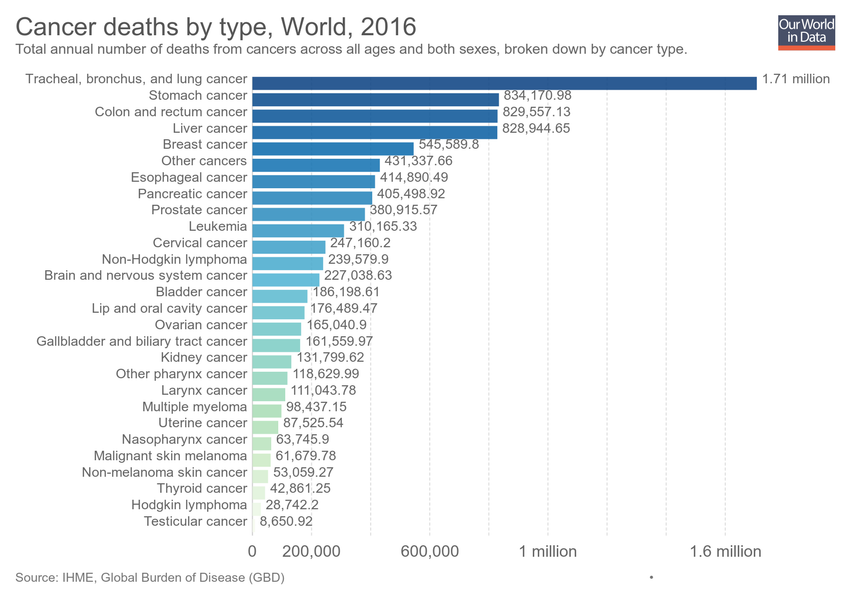
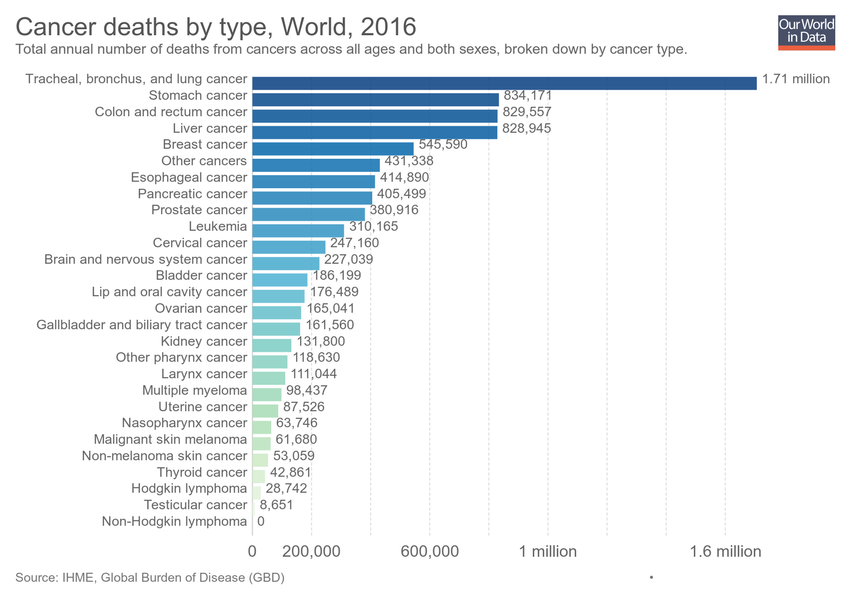
Updating chart total-cancer-deaths-by-type

diff --git a/grapher/total-cancer-deaths-by-type.html b/grapher/total-cancer-deaths-by-type.html
@@ -1,4 +1,4 @@
-<!doctype html><html><head><meta name="viewport" content="width=device-width, initial-scale=1" /><title>Cancer deaths by type - Our World in Data</title><meta name="description" content="Total annual number of deaths from cancers across all ages and both sexes, broken down by cancer type. " /><link rel="canonical" href="https://ourworldindata.org/grapher/total-cancer-deaths-by-type" /><meta property="fb:app_id" content="1149943818390250" /><meta property="og:url" content="https://ourworldindata.org/grapher/total-cancer-deaths-by-type" /><meta property="og:title" content="Cancer deaths by type" /><meta property="og:description" content="Total annual number of deaths from cancers across all ages and both sexes, broken down by cancer type. " /><meta property="og:image" content="https://ourworldindata.org/grapher/exports/total-cancer-deaths-by-type.png?v=5" /><meta property="og:image:width" content="850" /><meta property="og:image:height" content="600" /><meta property="og:site_name" content="Our World in Data" /><meta name="twitter:card" content="summary_large_image" /><meta name="twitter:site" content="@OurWorldInData" /><meta name="twitter:creator" content="@OurWorldInData" /><meta name="twitter:title" content="Cancer deaths by type" /><meta name="twitter:description" content="Total annual number of deaths from cancers across all ages and both sexes, broken down by cancer type. " /><meta name="twitter:image" content="https://ourworldindata.org/grapher/exports/total-cancer-deaths-by-type.png?v=5" /><style>
+<!doctype html><html><head><meta name="viewport" content="width=device-width, initial-scale=1" /><title>Cancer deaths by type - Our World in Data</title><meta name="description" content="Total annual number of deaths from cancers across all ages and both sexes, broken down by cancer type. " /><link rel="canonical" href="https://ourworldindata.org/grapher/total-cancer-deaths-by-type" /><meta property="fb:app_id" content="1149943818390250" /><meta property="og:url" content="https://ourworldindata.org/grapher/total-cancer-deaths-by-type" /><meta property="og:title" content="Cancer deaths by type" /><meta property="og:description" content="Total annual number of deaths from cancers across all ages and both sexes, broken down by cancer type. " /><meta property="og:image" content="https://ourworldindata.org/grapher/exports/total-cancer-deaths-by-type.png?v=6" /><meta property="og:image:width" content="850" /><meta property="og:image:height" content="600" /><meta property="og:site_name" content="Our World in Data" /><meta name="twitter:card" content="summary_large_image" /><meta name="twitter:site" content="@OurWorldInData" /><meta name="twitter:creator" content="@OurWorldInData" /><meta name="twitter:title" content="Cancer deaths by type" /><meta name="twitter:description" content="Total annual number of deaths from cancers across all ages and both sexes, broken down by cancer type. " /><meta name="twitter:image" content="https://ourworldindata.org/grapher/exports/total-cancer-deaths-by-type.png?v=6" /><style>
         html, body {
             height: 100%;
             margin: 0;
@@ -20,8 +20,8 @@
         }
     </style><noscript><style>
                     figure { display: none !important; }
-                </style></noscript><link rel="stylesheet" href="https://ourworldindata.org/grapher/assets/commons.bundle.dcbbe53805c487d5e57617b10ac73a8a.css" /><link rel="preload" href="/grapher/data/variables/61055+61722+61108+57397+61755+61046+61733+57415+61702+57406+57424+61675+61037+61711+57451+57462+57433+61693+57442+61744+61117+57471+61684+61812+61777+61790+61801+61825.json?v=5" as="fetch" crossorigin /></head><body class="singleChart"><figure data-grapher-src="/grapher/total-cancer-deaths-by-type"></figure><noscript id="fallback"><img src="/grapher/exports/total-cancer-deaths-by-type.svg" /><p>Interactive visualization requires JavaScript</p></noscript><script src="https://cdn.polyfill.io/v2/polyfill.min.js?features=es6,fetch"></script><script src="https://ourworldindata.org/grapher/assets/commons.bundle.da523acc49807a06a11f.js"></script><script src="https://ourworldindata.org/grapher/assets/charts.bundle.da523acc49807a06a11f.js"></script><script>
-        var jsonConfig = {"id":2004,"map":{"projection":"World","colorSchemeLabels":[],"colorSchemeValues":[],"defaultProjection":"World","colorSchemeMinValue":0,"customNumericColors":[],"customCategoryColors":{},"customCategoryLabels":{},"customHiddenCategories":{}},"tab":"chart","slug":"total-cancer-deaths-by-type","type":"DiscreteBar","title":"Cancer deaths by type","xAxis":{"scaleType":"linear"},"yAxis":{"min":0,"scaleType":"linear"},"version":5,"subtitle":"Total annual number of deaths from cancers across all ages and both sexes, broken down by cancer type. ","hasMapTab":false,"stackMode":"absolute","dimensions":[{"display":{},"property":"y","variableId":61055,"numDecimalPlaces":0},{"display":{},"property":"y","variableId":61722,"numDecimalPlaces":0},{"display":{},"property":"y","variableId":61108,"numDecimalPlaces":0},{"display":{},"property":"y","variableId":57397,"numDecimalPlaces":0},{"display":{},"property":"y","variableId":61755,"numDecimalPlaces":0},{"display":{},"property":"y","variableId":61046,"numDecimalPlaces":0},{"display":{},"property":"y","variableId":61733,"numDecimalPlaces":0},{"display":{},"property":"y","variableId":57415,"numDecimalPlaces":0},{"display":{},"property":"y","variableId":61702,"numDecimalPlaces":0},{"display":{},"property":"y","variableId":57406,"numDecimalPlaces":0},{"display":{},"property":"y","variableId":57424,"numDecimalPlaces":0},{"display":{},"property":"y","variableId":61675,"numDecimalPlaces":0},{"display":{},"property":"y","variableId":61037,"numDecimalPlaces":0},{"display":{},"property":"y","variableId":61711,"numDecimalPlaces":0},{"display":{},"property":"y","variableId":57451,"numDecimalPlaces":0},{"display":{},"property":"y","variableId":57462,"numDecimalPlaces":0},{"display":{},"property":"y","variableId":57433,"numDecimalPlaces":0},{"display":{},"property":"y","variableId":61693,"numDecimalPlaces":0},{"display":{},"property":"y","variableId":57442,"numDecimalPlaces":0},{"display":{},"property":"y","variableId":61744,"numDecimalPlaces":0},{"display":{},"property":"y","variableId":61117,"numDecimalPlaces":0},{"display":{},"property":"y","variableId":57471,"numDecimalPlaces":0},{"display":{},"property":"y","variableId":61684,"numDecimalPlaces":0},{"display":{},"property":"y","variableId":61812,"numDecimalPlaces":0},{"display":{},"property":"y","variableId":61777,"numDecimalPlaces":0},{"display":{},"property":"y","variableId":61790,"numDecimalPlaces":0},{"display":{},"property":"y","variableId":61801,"numDecimalPlaces":0},{"display":{},"property":"y","variableId":61825,"numDecimalPlaces":0}],"sourceDesc":"IHME, Global Burden of Disease (GBD)","hasChartTab":true,"isPublished":true,"selectedData":[{"index":0,"entityId":355},{"index":1,"entityId":355},{"index":10,"entityId":355},{"index":11,"entityId":355},{"index":12,"entityId":355},{"index":13,"entityId":355},{"index":14,"entityId":355},{"index":15,"entityId":355},{"index":16,"entityId":355},{"index":17,"entityId":355},{"index":18,"entityId":355},{"index":19,"entityId":355},{"index":2,"entityId":355},{"index":20,"entityId":355},{"index":21,"entityId":355},{"index":22,"entityId":355},{"index":23,"entityId":355},{"index":24,"entityId":355},{"index":25,"entityId":355},{"index":26,"entityId":355},{"index":27,"entityId":355},{"index":3,"entityId":355},{"index":4,"entityId":355},{"index":5,"entityId":355},{"index":6,"entityId":355},{"index":7,"entityId":355},{"index":8,"entityId":355},{"index":9,"entityId":355}],"addCountryMode":"change-country","baseColorScheme":"GnBu"};
+                </style></noscript><link rel="stylesheet" href="https://ourworldindata.org/grapher/assets/commons.bundle.dcbbe53805c487d5e57617b10ac73a8a.css" /><link rel="preload" href="/grapher/data/variables/61055+61722+61108+57397+61755+61046+61733+57415+61702+57406+57424+61675+61037+61711+57451+57462+57433+61693+57442+61744+61117+57471+61684+61812+61777+61790+61801+61825.json?v=6" as="fetch" crossorigin /></head><body class="singleChart"><figure data-grapher-src="/grapher/total-cancer-deaths-by-type"></figure><noscript id="fallback"><img src="/grapher/exports/total-cancer-deaths-by-type.svg" /><p>Interactive visualization requires JavaScript</p></noscript><script src="https://cdn.polyfill.io/v2/polyfill.min.js?features=es6,fetch"></script><script src="https://ourworldindata.org/grapher/assets/commons.bundle.da523acc49807a06a11f.js"></script><script src="https://ourworldindata.org/grapher/assets/charts.bundle.da523acc49807a06a11f.js"></script><script>
+        var jsonConfig = {"id":2004,"map":{"projection":"World","colorSchemeLabels":[],"colorSchemeValues":[],"colorSchemeMinValue":0,"customNumericColors":[],"customCategoryColors":{},"customCategoryLabels":{},"customHiddenCategories":{}},"tab":"chart","slug":"total-cancer-deaths-by-type","type":"DiscreteBar","title":"Cancer deaths by type","xAxis":{"scaleType":"linear"},"yAxis":{"min":0,"scaleType":"linear"},"version":6,"subtitle":"Total annual number of deaths from cancers across all ages and both sexes, broken down by cancer type. ","hasMapTab":false,"stackMode":"absolute","dimensions":[{"display":{"numDecimalPlaces":0},"property":"y","variableId":61055},{"display":{"numDecimalPlaces":0},"property":"y","variableId":61722},{"display":{"numDecimalPlaces":0},"property":"y","variableId":61108},{"display":{"numDecimalPlaces":0},"property":"y","variableId":57397},{"display":{"numDecimalPlaces":0},"property":"y","variableId":61755},{"display":{"numDecimalPlaces":0},"property":"y","variableId":61046},{"display":{"numDecimalPlaces":0},"property":"y","variableId":61733},{"display":{"numDecimalPlaces":0},"property":"y","variableId":57415},{"display":{"numDecimalPlaces":0},"property":"y","variableId":61702},{"display":{"numDecimalPlaces":0},"property":"y","variableId":57406},{"display":{"numDecimalPlaces":0},"property":"y","variableId":57424},{"display":{"numDecimalPlaces":0},"property":"y","variableId":61675},{"display":{"numDecimalPlaces":0},"property":"y","variableId":61037},{"display":{"numDecimalPlaces":0},"property":"y","variableId":61711},{"display":{"numDecimalPlaces":0},"property":"y","variableId":57451},{"display":{"numDecimalPlaces":0},"property":"y","variableId":57462},{"display":{"numDecimalPlaces":0},"property":"y","variableId":57433},{"display":{"numDecimalPlaces":0},"property":"y","variableId":61693},{"display":{"numDecimalPlaces":0},"property":"y","variableId":57442},{"display":{"numDecimalPlaces":0},"property":"y","variableId":61744},{"display":{"numDecimalPlaces":0},"property":"y","variableId":61117},{"display":{"numDecimalPlaces":0},"property":"y","variableId":57471},{"display":{"numDecimalPlaces":0},"property":"y","variableId":61684},{"display":{"numDecimalPlaces":0},"property":"y","variableId":61812},{"display":{"numDecimalPlaces":0},"property":"y","variableId":61777},{"display":{"conversionFactor":0},"property":"y","variableId":61790},{"display":{"numDecimalPlaces":0},"property":"y","variableId":61801},{"display":{"numDecimalPlaces":0},"property":"y","variableId":61825}],"sourceDesc":"IHME, Global Burden of Disease (GBD)","hasChartTab":true,"isPublished":true,"selectedData":[{"index":0,"entityId":355},{"index":1,"entityId":355},{"index":10,"entityId":355},{"index":11,"entityId":355},{"index":12,"entityId":355},{"index":13,"entityId":355},{"index":14,"entityId":355},{"index":15,"entityId":355},{"index":16,"entityId":355},{"index":17,"entityId":355},{"index":18,"entityId":355},{"index":19,"entityId":355},{"index":2,"entityId":355},{"index":20,"entityId":355},{"index":21,"entityId":355},{"index":22,"entityId":355},{"index":23,"entityId":355},{"index":24,"entityId":355},{"index":25,"entityId":355},{"index":26,"entityId":355},{"index":27,"entityId":355},{"index":3,"entityId":355},{"index":4,"entityId":355},{"index":5,"entityId":355},{"index":6,"entityId":355},{"index":7,"entityId":355},{"index":8,"entityId":355},{"index":9,"entityId":355}],"addCountryMode":"change-country","baseColorScheme":"GnBu"};
         var figure = document.getElementsByTagName("figure")[0];
         try {
             window.App = {};
